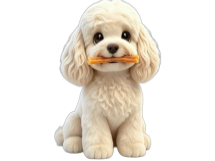
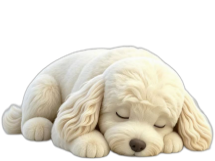
fix: 闲置状态高频抖动——对齐成熟桌宠防抖惯例
- 根因：get_sleepy from:"*" 使犯困行为可从 sleep 抢回 dozy，与 fall_asleep 在 100ms 决策周期内互相抢占
- 数据层：睡觉链 from 限定清醒态（idle/walk/hungry）
- 引擎：全局最短停留 3s（AUTO_DWELL）+ 每行为冷却 cooldown_s（默认 30s，manifest 可覆盖）
- 菜单交互（喂食/摸摸头）重置闲置计时
- 规范 v0 约定补充 ⑤防抖 ⑥睡觉链写法；320s 冒烟验证时间线干净

diff --git a/src/yuanyuan/engine/animator.py b/src/yuanyuan/engine/animator.py
@@ -11,6 +11,8 @@ from PyQt6.QtGui import QPixmap
 from ..content.models import Behavior, PetPack
 
 EVENT_TRIGGERS = {"click", "double_click", "drag_start", "drag_end"}
+AUTO_TRIGGERS = {"random", "idle_time", "stat"}
+AUTO_DWELL_S = 3.0  # 全局最短停留：任何切换后 3s 内不做自动决策（防高频抖动，成熟桌宠惯例）
 
 
 class StateMachine(QObject):
@@ -28,6 +30,7 @@ class StateMachine(QObject):
             time.monotonic() + pack.startup_duration if pack.startup_state else None
         )
         self._locked = False  # 拖拽中：只允许 drag_end
+        self._last_auto = 0.0
         self._decision_timer = QTimer(self)
         self._decision_timer.timeout.connect(self._tick)
         self._decision_timer.start(100)  # 10Hz 决策
@@ -47,8 +50,12 @@ class StateMachine(QObject):
         return frames[idx]
 
     # ---- 引擎事件入口（窗口层调用）----
-    def on_event(self, event: str) -> None:
+    def note_interaction(self) -> None:
+        """用户产生了交互（点击/拖拽/菜单喂食），重置闲置计时"""
         self._last_interaction = time.monotonic()
+
+    def on_event(self, event: str) -> None:
+        self.note_interaction()
         if event == "drag_end":
             self._locked = False
         for b in self.pack.behaviors:
@@ -63,7 +70,13 @@ class StateMachine(QObject):
             self._behavior_until = None
             self._transition(self.pack.default_state)
             return
+        if now - self._last_auto < AUTO_DWELL_S:
+            return  # 最短停留期内不做自动决策
         for b in self.pack.behaviors:
+            if b.trigger.type not in AUTO_TRIGGERS:
+                continue
+            if now - getattr(b, "_last_fired", -1e18) < b.cooldown:
+                continue  # 行为冷却中
             t = b.trigger.type
             if t == "random":
                 every = b.trigger.params.get("every_s") or [60, 180]
@@ -119,6 +132,7 @@ class StateMachine(QObject):
 
     def fire(self, b: Behavior) -> None:
         self._transition(b.to_state)
+        b._last_fired = time.monotonic()
         if b.duration:
             self._behavior_until = time.monotonic() + random.uniform(*b.duration)
 
@@ -126,8 +140,10 @@ class StateMachine(QObject):
         if new == self.current:
             return
         old, self.current = self.current, new
-        self._frame_t0 = time.monotonic()
+        now = time.monotonic()
+        self._frame_t0 = now
         self._behavior_until = None
+        self._last_auto = now  # 最短停留从这次切换起算
         if new == "drag":  # 进入拖拽态后锁住，直到 drag_end
             self._locked = True
         self.state_changed.emit(old, new)

diff --git a/src/yuanyuan/app.py b/src/yuanyuan/app.py
@@ -4,6 +4,7 @@ from __future__ import annotations
 
 import argparse
 import sys
+import time
 from pathlib import Path
 
 from PyQt6.QtCore import Qt, QTimer
@@ -105,7 +106,10 @@ def main(argv: list[str]) -> int:
     }
 
     sm = StateMachine(pack, pixmaps, stats_getter=lambda: evolution.as_dict())
-    sm.state_changed.connect(lambda old, new: print(f"[状态] {old} → {new}", flush=True))
+    _t0 = time.monotonic()
+    sm.state_changed.connect(
+        lambda old, new: print(f"[状态] +{time.monotonic() - _t0:6.1f}s {old} → {new}", flush=True)
+    )
 
     tray_holder: dict = {}
 
@@ -115,6 +119,7 @@ def main(argv: list[str]) -> int:
             tray.setToolTip(f"{pack.name} · {evolution.stage} · 亲密度 {evolution.intimacy:.0f}")
 
     def on_interact(iid: str) -> None:
+        sm.note_interaction()  # 菜单交互也算互动：重置闲置/睡觉计时
         result = evolution.do(iid)
         if result and result[0]:
             sm.force(result[0], result[1])

diff --git a/scripts/cutout_yuanyuan.py b/scripts/cutout_yuanyuan.py
@@ -72,8 +72,8 @@ MANIFEST = {
          "trigger": {"type": "drag_start"}},
         {"id": "dropped", "from": "drag", "to": "idle",
          "trigger": {"type": "drag_end"}},
-        {"id": "get_sleepy", "from": "*", "to": "dozy",
-         "trigger": {"type": "idle_time", "s": 120}},
+        {"id": "get_sleepy", "from": ["idle", "walk", "hungry"], "to": "dozy",
+         "trigger": {"type": "idle_time", "s": 120}},  # 睡觉链只从清醒态出发，禁止从 sleep 抢回（防抖动）
         {"id": "fall_asleep", "from": "dozy", "to": "sleep",
          "trigger": {"type": "idle_time", "s": 180}},
         {"id": "wake_from_dozy", "from": "dozy", "to": "idle",

diff --git a/src/yuanyuan/content/models.py b/src/yuanyuan/content/models.py
@@ -30,6 +30,7 @@ class Behavior:
     duration: tuple[float, float] | None = None  # 秒；到期回 default_state
     interruptible: bool = True
     require: dict | None = None  # 数值门槛 {"stat","op","value"}，不满足则不触发（M2）
+    cooldown: float = 30.0       # 自动触发（random/idle_time/stat）两次触发的最短间隔秒数
 
 
 @dataclass

diff --git a/src/yuanyuan/content/pack_loader.py b/src/yuanyuan/content/pack_loader.py
@@ -112,6 +112,7 @@ def load_pack(pack_dir: str | Path) -> PetPack:
             duration=tuple(map(float, duration)) if duration else None,
             interruptible=bool(b.get("interruptible", True)),
             require=require,
+            cooldown=float(b.get("cooldown_s", 30.0)),
         ))
 
     # ---- 顶层字段 ----

diff --git a/docs/任务拆解与里程碑.md b/docs/任务拆解与里程碑.md
@@ -41,7 +41,7 @@
 | T2.3 喂食与互动菜单 ✅ 2026-10-24 | 右键喂食/抚摸，数值增减 + 对应动画 | **已达成**：右键 + 托盘"喂食/摸摸头"为真功能（效果来自 `life.interactions`，数据驱动）；新增 `StateMachine.force()`；缘缘包扩充 hungry/eat/play 三姿势（共 8 姿势 11 行为） | 1 天 |
 | T2.4 成长阶段 🟡 2026-10-24 | 幼年→成年外观/行为差异（由宠物包定义多阶段素材） | **部分达成**：阶段阈值 + 托盘提示（名字·阶段·亲密度）+ 进化庆祝动画已实装；多阶段外观素材待后续（当前亲密度增长只能靠喂食/抚摸积累） | 1 天 |
 | T2.5 存档健壮性 ✅ 2026-10-24 | 存档损坏自动备份恢复 | **已达成**：`scripts/check_save.py` 6 项验收全过（持久化/损坏自愈备份 .corrupt-*/自愈后可写）；修复 Windows 下损坏句柄未释放导致自愈失败的 bug | 0.5 天 |
-| **M2 验收** 🟡 | | **待自用 3 天观察**（DoD：不出 bug、有"活着"的感觉）——功能链路已全部验证，开始日常使用 | |
+| **M2 验收** 🟡 | | **自用观察中**（DoD：不出 bug、有"活着"的感觉）。2026-10-24 用户反馈：长时间闲置后 dozy↔sleep 高频抖动 → 已修：① 数据层 `get_sleepy` 禁止 `from:"*"`（睡觉链只从清醒态出发）；② 引擎加两级防抖（全局最短停留 3s + 每行为冷却 `cooldown_s` 默认 30s，对齐 Shimeji/VPet 惯例）；③ 菜单交互重置闲置计时。320s 冒烟时间线验证：2.5s 问候→5.6s 饿→120.1s 犯困→180.0s 熟睡→稳住 | |
 
 ## M3 · V0.3 感知与反馈（第 5~6 周）— "宠物对你的行为有反应"
 

diff --git a/docs/宠物包格式规范-v0.md b/docs/宠物包格式规范-v0.md
@@ -114,7 +114,7 @@ pets/mochi-cat/
 
 **behaviors[].require（可选，M2）**：`{ "stat": …, "op": …, "value": … }` 数值门槛——条件不满足时该行为不触发（如心情 ≥75 才会主动叼球玩）。
 
-> **v0 实现约定（2026-10-24，随 M1/M2 开发确定）**：① 行为的 `duration_s` 到期后进入 `default_state`；② 唤醒用通用事件行为即可（如 `{"from": ["sleep"], "to": "idle", "trigger": {"type": "click"}}`），`wake` 字段解析但引擎不依赖；③ `sense` 触发器在 M3 实现前被解析但保持惰性；④ 交互（喂食/摸摸头）效果由 `life.interactions` 定义，引擎内置同名默认值。
+> **v0 实现约定（2026-10-24，随 M1/M2 开发确定）**：① 行为的 `duration_s` 到期后进入 `default_state`；② 唤醒用通用事件行为即可（如 `{"from": ["sleep"], "to": "idle", "trigger": {"type": "click"}}`），`wake` 字段解析但引擎不依赖；③ `sense` 触发器在 M3 实现前被解析但保持惰性；④ 交互（喂食/摸摸头）效果由 `life.interactions` 定义，引擎内置同名默认值；⑤ 引擎对自动触发器（random/idle_time/stat）施加两级防抖——**全局最短停留 3s** + 每行为冷却 `cooldown_s`（默认 30s，可覆盖），事件触发（点击/拖拽）不受限；⑥ **睡觉链必须从明确的清醒状态出发**（如 `from: ["idle","walk"]`），禁止 `"*"`，否则会与睡眠态互相抢占造成高频抖动（Shimeji/VPet 惯例：状态要待够才换，睡觉是只能被互动打断的终态）。
 
 ## 4. 校验规则（加载器必须实现）
 
